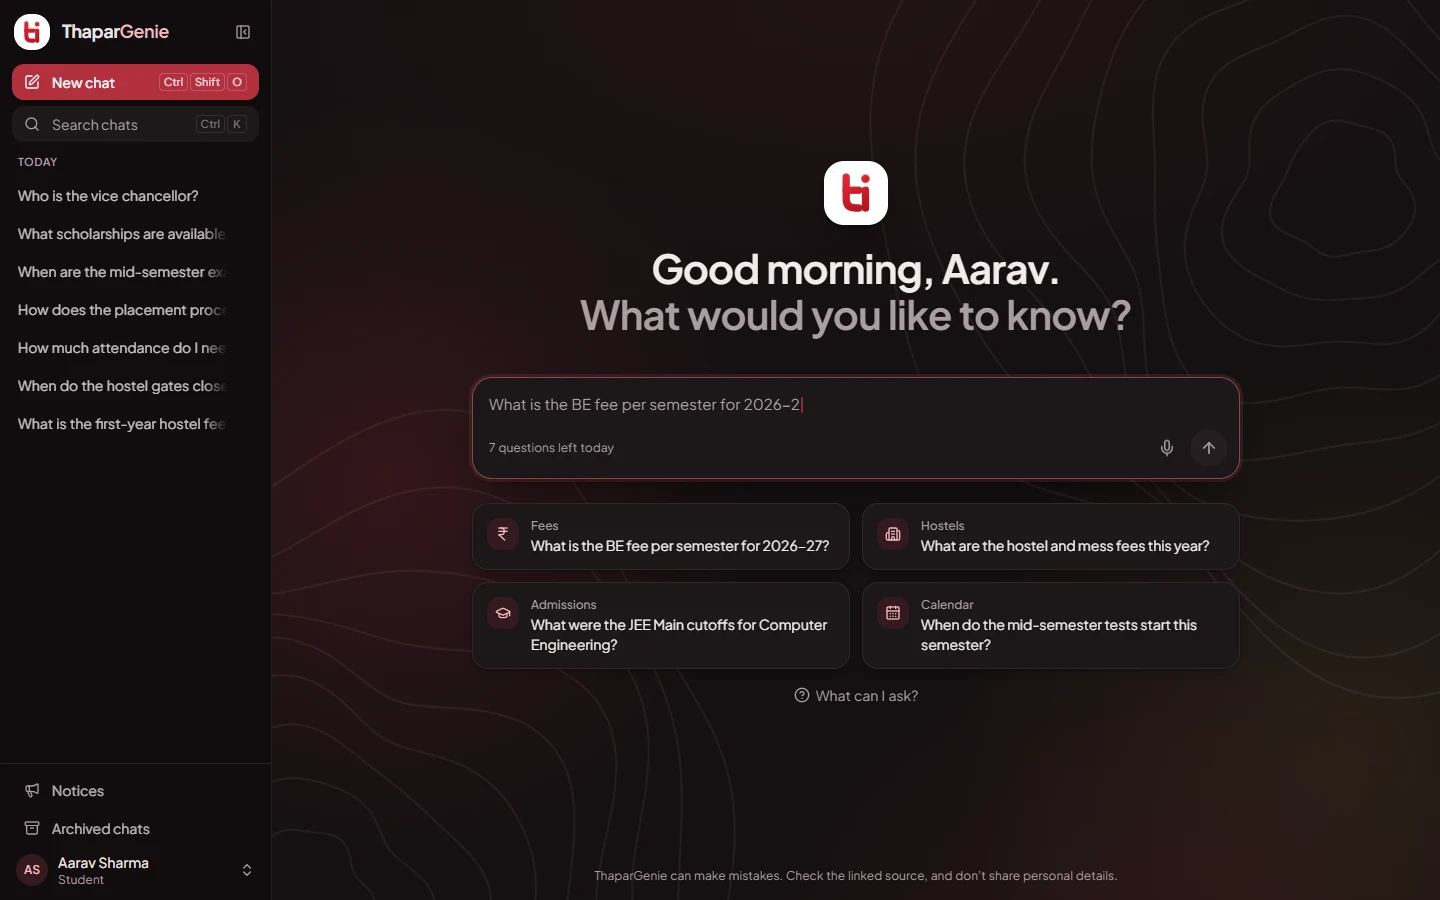
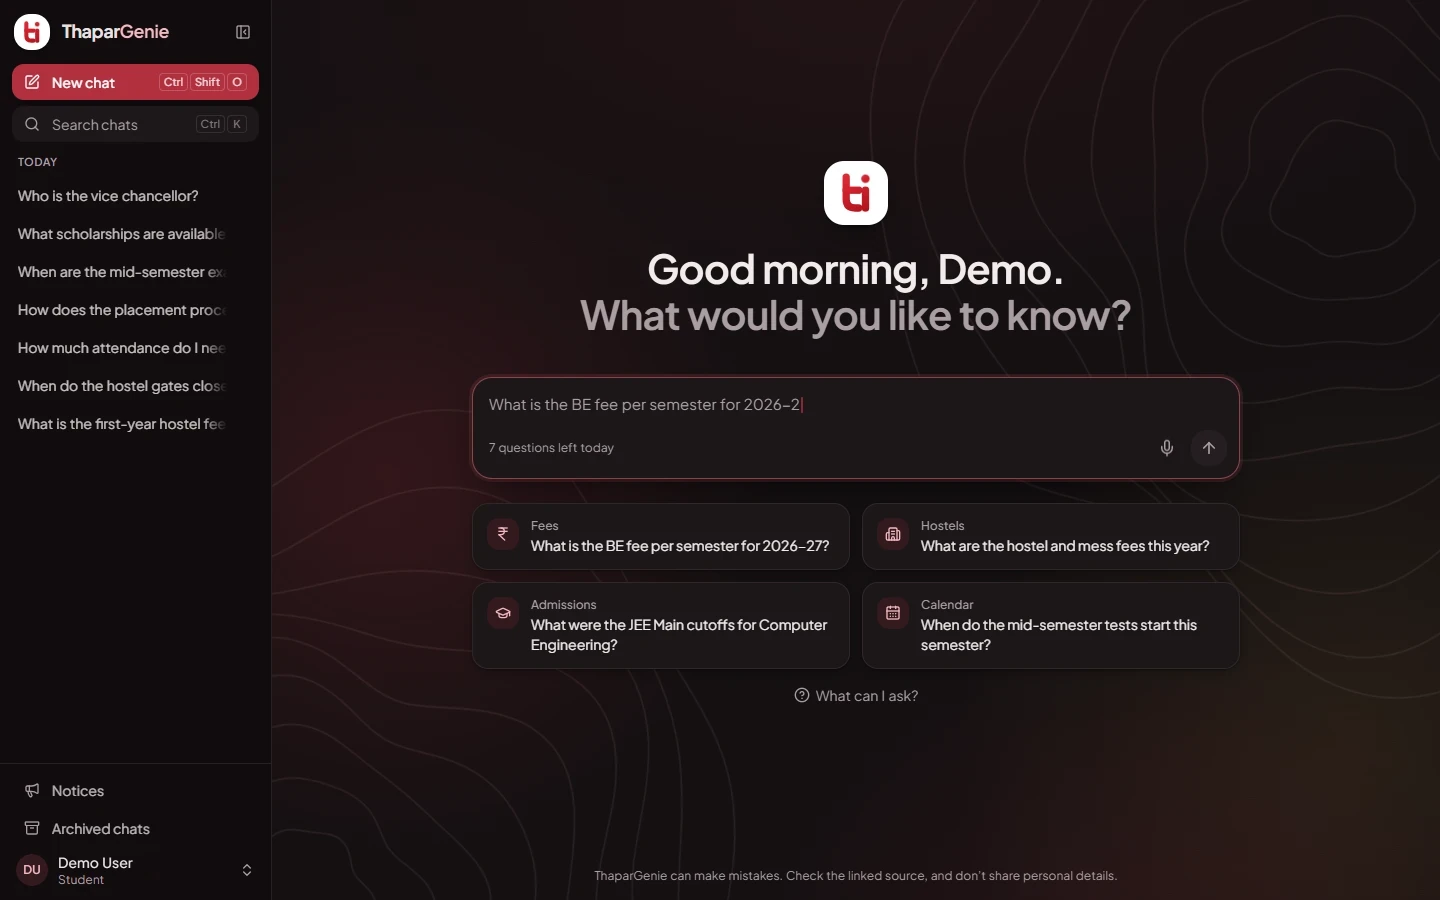
Update docs

Changed region(s): [[0.4375, 0.28, 0.75, 0.3422], [0.0312, 0.9333, 0.0938, 0.9644]]

diff --git a/Backend/backend/chat/tests/test_demo.py b/Backend/backend/chat/tests/test_demo.py
@@ -7,7 +7,7 @@ from django.conf import settings
 from django.core.management import call_command
 from django.core.management.base import CommandError
 from django.utils import timezone
-from userauths.demo import DEMO_QUESTIONS, is_demo
+from userauths.demo import DEMO_QUESTIONS, DEMO_UID, is_demo
 from userauths.models import User
 
 from chat.models import Conversation, Feedback, Message, SiteFeedback, UsageDaily
@@ -26,6 +26,11 @@ class DemoLockTests(ChatTestCase):
         self.assertTrue(is_demo(self.demo))
         self.assertFalse(is_demo(self.user))
         self.assertFalse(is_demo(None))
+
+    def test_the_demo_uid_stays_locked_under_an_old_email(self):
+        old = make_user('old-demo@example.com')
+        old.firebase_uid = DEMO_UID
+        self.assertTrue(is_demo(old))
 
     def test_me_says_who_is_the_demo(self):
         self.assertTrue(self.demo_client.get(ME).data['is_demo'])
@@ -72,10 +77,10 @@ class SeedDemoTests(ChatTestCase):
         with self.assertRaises(CommandError):
             call_command('seed_demo', '--content-only', verbosity=0)
 
-    def test_it_makes_the_demo_a_student_called_aarav_with_sample_chats(self):
+    def test_it_makes_the_demo_a_student_called_demo_user_with_sample_chats(self):
         self.seed()
         self.demo.refresh_from_db()
-        self.assertEqual((self.demo.first_name, self.demo.last_name), ('Aarav', 'Sharma'))
+        self.assertEqual((self.demo.first_name, self.demo.last_name), ('Demo', 'User'))
         self.assertFalse(self.demo.is_staff)
         self.assertEqual(self.demo.profile.program, 'B.E. Computer Engineering')
         asked = list(Message.objects.filter(conversation__user=self.demo, role='user')
@@ -83,6 +88,18 @@ class SeedDemoTests(ChatTestCase):
         self.assertEqual(asked, list(self.questions))
         self.assertEqual(Message.objects.filter(conversation__user=self.demo,
                                                 status='complete').count(), 4)
+
+    def test_an_account_made_under_an_old_email_moves_to_the_new_one(self):
+        self.demo.email, self.demo.firebase_uid = 'old-demo@example.com', DEMO_UID
+        self.demo.save()
+        for _ in self.questions:
+            self.fake.queue(ANALYSIS, ANSWER)
+        with mock.patch('chat.management.commands.seed_demo._ensure_firebase_user',
+                        return_value=DEMO_UID):
+            call_command('seed_demo', verbosity=0)
+        self.demo.refresh_from_db()
+        self.assertEqual(self.demo.email, settings.DEMO_ACCOUNT_EMAIL)
+        self.assertEqual(User.objects.filter(firebase_uid=DEMO_UID).count(), 1)
 
     def test_the_seeding_questions_do_not_use_up_the_allowance(self):
         self.seed()

diff --git a/Backend/backend/chat/management/commands/seed_demo.py b/Backend/backend/chat/management/commands/seed_demo.py
@@ -1,4 +1,4 @@
-"""Create or reset the shared demo account (Aarav Sharma) and its sample chats.
+"""Create or reset the shared demo account (Demo User) and its sample chats.
 
     python manage.py seed_demo                 # first run, or to change the password
     python manage.py seed_demo --content-only  # the daily reset: database only
@@ -46,7 +46,11 @@ def _ensure_firebase_user(email, password):
     try:
         existing = auth.get_user_by_email(email, app=app)
     except auth.UserNotFoundError:
-        return auth.create_user(uid=DEMO_UID, app=app, **fields).uid
+        try:
+            # The account made under an earlier DEMO_ACCOUNT_EMAIL moves to the new one.
+            existing = auth.get_user(DEMO_UID, app=app)
+        except auth.UserNotFoundError:
+            return auth.create_user(uid=DEMO_UID, app=app, **fields).uid
     return auth.update_user(existing.uid, app=app, **fields).uid
 
 
@@ -59,6 +63,7 @@ def _ensure_local_user(email, uid):
             raise CommandError('The demo account does not exist yet. Run seed_demo without '
                                '--content-only first.')
         user = User(email=email)
+    user.email = email
     if uid:
         user.firebase_uid = uid
     user.first_name, user.last_name = DEMO_FIRST_NAME, DEMO_LAST_NAME

diff --git a/Backend/backend/userauths/demo.py b/Backend/backend/userauths/demo.py
@@ -9,9 +9,10 @@ from django.conf import settings
 from rest_framework import status
 from rest_framework.exceptions import APIException
 
+# Firebase uids cannot change, so this keeps the uid the account was first made with.
 DEMO_UID = 'demo-aarav-sharma'
-DEMO_FIRST_NAME = 'Aarav'
-DEMO_LAST_NAME = 'Sharma'
+DEMO_FIRST_NAME = 'Demo'
+DEMO_LAST_NAME = 'User'
 DEMO_DISPLAY_NAME = f'{DEMO_FIRST_NAME} {DEMO_LAST_NAME}'
 DEMO_PROFILE = {'campus': 'Patiala', 'program': 'B.E. Computer Engineering', 'academic_year': 1}
 # Public, like the email. Easy to type; Firebase needs at least 6 characters.
@@ -36,7 +37,9 @@ class DemoAccountLocked(APIException):
 
 
 def is_demo(user):
-    return bool(user) and getattr(user, 'email', '') == settings.DEMO_ACCOUNT_EMAIL
+    # The uid keeps the account locked while it is moved to a new DEMO_ACCOUNT_EMAIL.
+    return bool(user) and (getattr(user, 'email', '') == settings.DEMO_ACCOUNT_EMAIL
+                           or getattr(user, 'firebase_uid', None) == DEMO_UID)
 
 
 def forbid_demo(user):

diff --git a/Backend/backend/backend/settings/base.py b/Backend/backend/backend/settings/base.py
@@ -169,7 +169,7 @@ REST_FRAMEWORK = {
 
 # The shared public demo account (see userauths/demo.py). Its password is public on purpose.
 DEMO_ACCOUNT_EMAIL = (
-    os.getenv("DEMO_ACCOUNT_EMAIL", "demo@divyanshuagrahari.dev").strip().casefold()
+    os.getenv("DEMO_ACCOUNT_EMAIL", "demo@thapargenie.dev").strip().casefold()
 )
 
 FIREBASE_PROJECT_ID = os.getenv("FIREBASE_PROJECT_ID", "").strip()

diff --git a/docs/deployment/operations.md b/docs/deployment/operations.md
@@ -24,7 +24,7 @@ has a dry-run variant under *Run workflow*: `purge-dry-run`, `refresh-dry-run`,
 
 ## Demo account
 
-Anyone can sign in as a shared student, Aarav Sharma (`demo@divyanshuagrahari.dev`; the
+Anyone can sign in as a shared student, Demo User (`demo@thapargenie.dev`; the
 address is `DEMO_ACCOUNT_EMAIL`). The login is published in the README, not on the sign-in
 page. The password is public on purpose and defaults to the value in `userauths/demo.py`.
 
@@ -37,7 +37,9 @@ python manage.py seed_demo
 
 This creates the Firebase account and the local one, then asks the seven sample questions
 through the live pipeline, so the chats carry real answers and citations. Run it again to
-change the password (`DEMO_ACCOUNT_PASSWORD`) or to repair the Firebase account.
+change the password (`DEMO_ACCOUNT_PASSWORD`), to repair the Firebase account, or after
+changing `DEMO_ACCOUNT_EMAIL` (it finds the account by its fixed uid and moves it to the new
+address; until then the daily job stops with "does not exist yet").
 
 The daily `demo` job runs `seed_demo --content-only`: no Firebase, only the database. A chat
 counts as a sample while it is still one untouched question and answer; the job deletes

diff --git a/README.md b/README.md
@@ -48,7 +48,7 @@ post notices from a separate dashboard.
 | | |
 |---|---|
 | **Live app** | [thapargenie.divyanshuagrahari.dev](https://thapargenie.divyanshuagrahari.dev) |
-| **Demo login** | `demo@divyanshuagrahari.dev` / `demo1234`. A shared, public student account (Aarav Sharma) with a few questions already asked: it can't change its profile or sign others out, and it is put back every day |
+| **Demo login** | `demo@thapargenie.dev` / `demo1234`. A shared, public student account (Demo User) with a few questions already asked: it can't change its profile or sign others out, and it is put back every day |
 | **Getting in** | Register with an email and verify it. New accounts are approved by an admin; when the admins have switched approval off, a verified `thapar.edu` address gets in directly and any other address still waits |
 | **First request** | The API runs on a free instance. If it has been idle, the first request can take up to a minute |
 

diff --git a/docs/local-development/commands.md b/docs/local-development/commands.md
@@ -78,7 +78,7 @@ Run from `Backend/backend` as `python manage.py <command>`.
 | `purge_data` | Applies the retention rules. `--dry-run`, `--skip-storage` |
 | `secure_database` | Turns on row level security for every table and revokes Supabase's API roles. `--check` only reports |
 | `createcachetable` | Creates the table behind the default cache. Needed once per database |
-| `seed_demo` | Creates or resets the public demo account (Aarav Sharma) and its sample chats; `--content-only` skips Firebase. See [operations](../deployment/operations.md#demo-account) |
+| `seed_demo` | Creates or resets the public demo account (Demo User) and its sample chats; `--content-only` skips Firebase. See [operations](../deployment/operations.md#demo-account) |
 | `seed_e2e` | Creates the end-to-end test accounts in the Auth emulator and one searchable document. Emulator only |
 
 ## Dependencies
